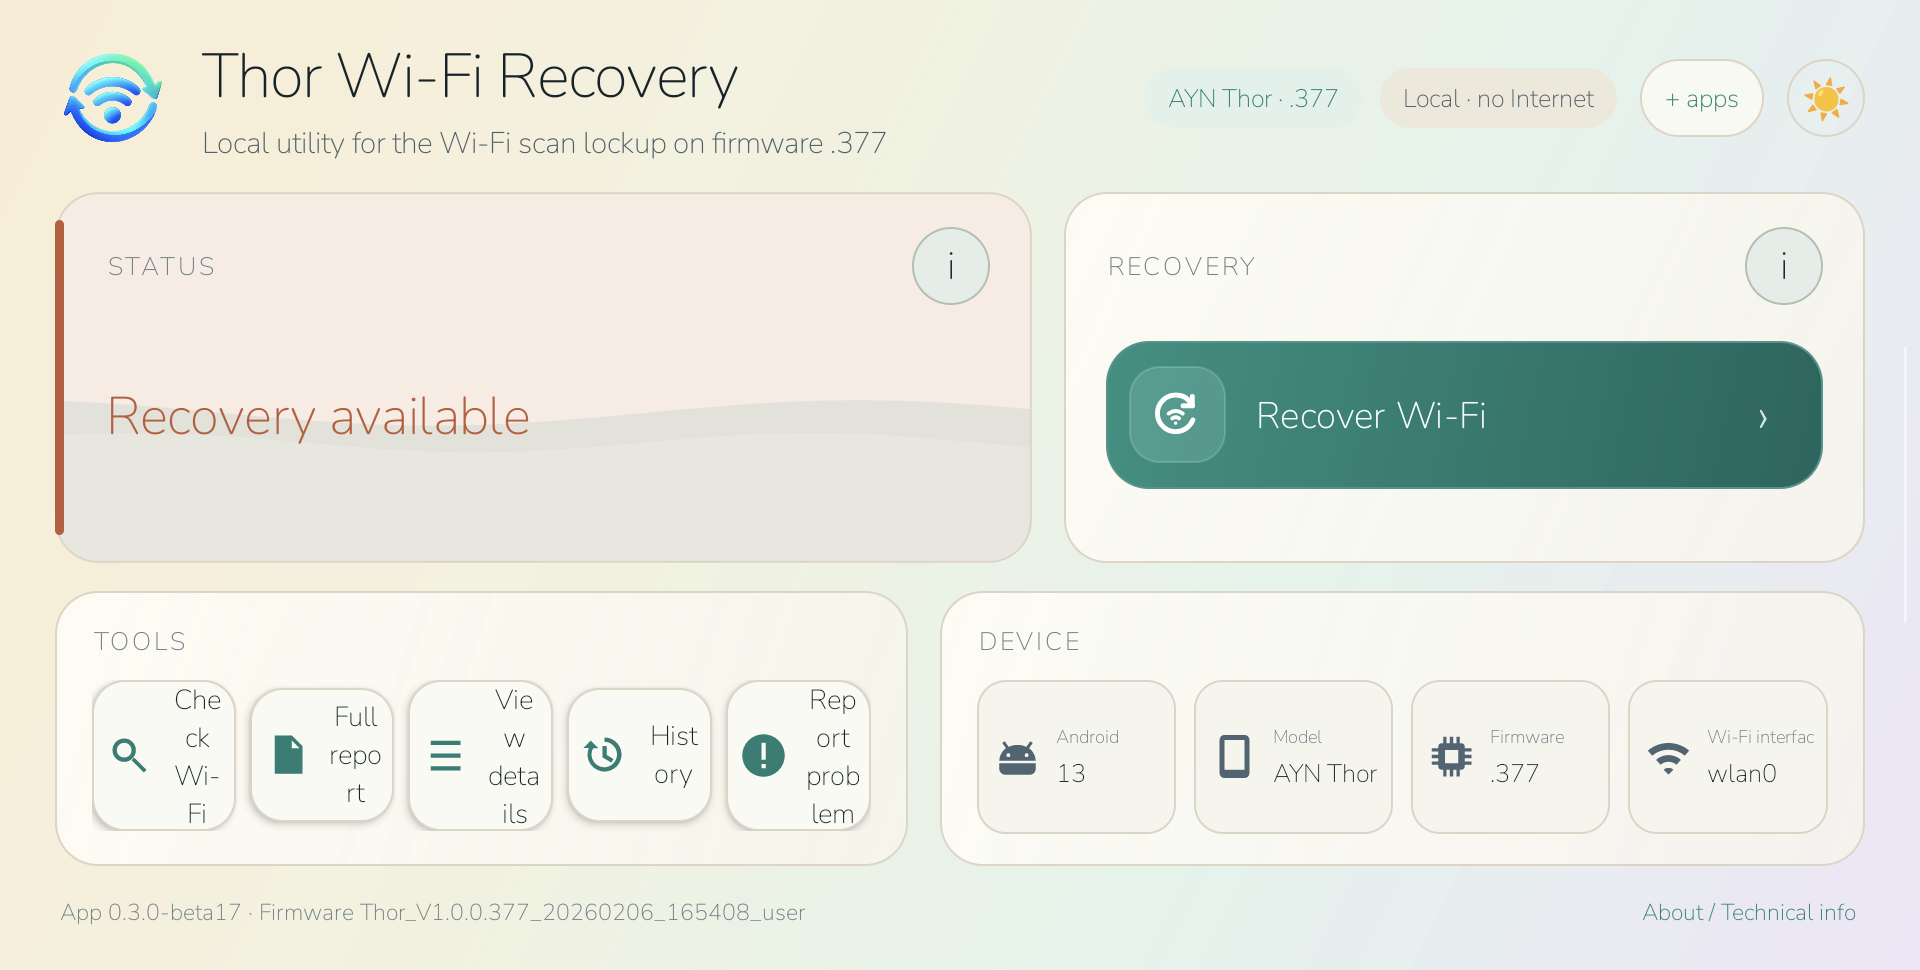
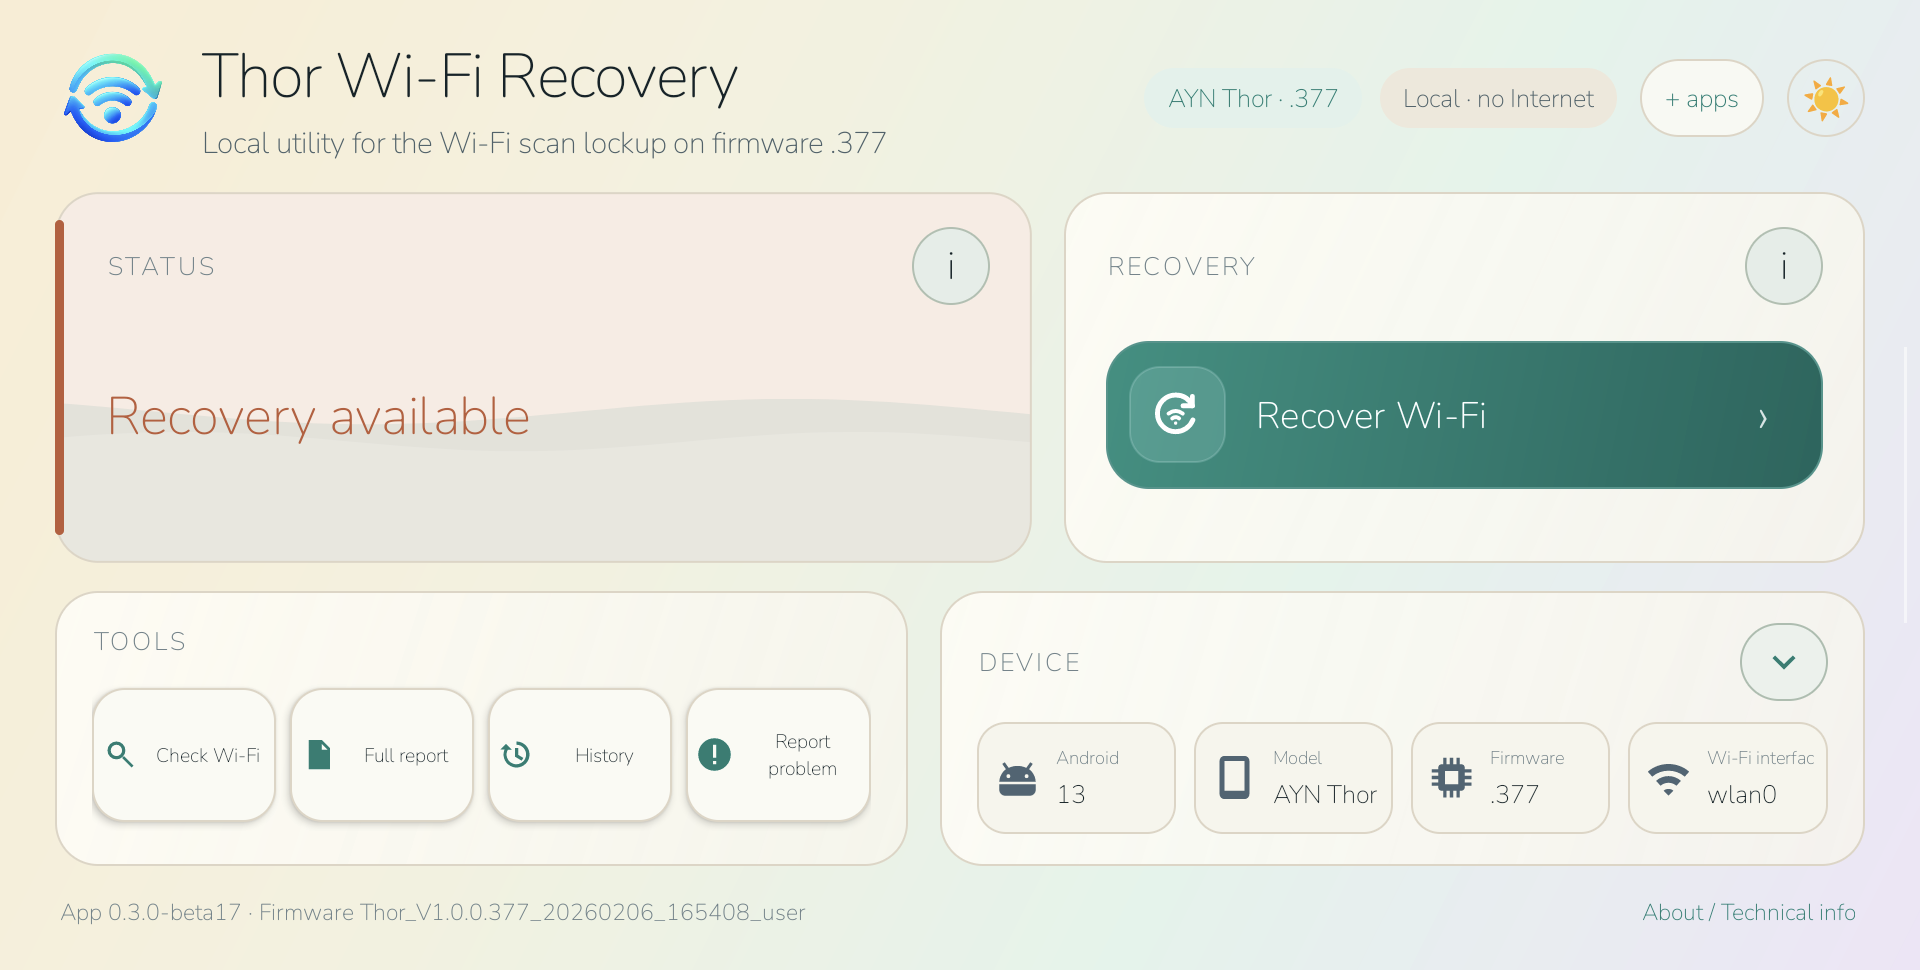
Polish tool actions and refresh beta17 screenshots

diff --git a/app/src/main/java/dev/joelmomo/thorwifirecovery/MainActivity.java b/app/src/main/java/dev/joelmomo/thorwifirecovery/MainActivity.java
@@ -26,6 +26,7 @@ import android.view.ViewGroup;
 import android.view.animation.PathInterpolator;
 import android.widget.Button;
 import android.widget.FrameLayout;
+import android.widget.ImageButton;
 import android.widget.ImageView;
 import android.widget.LinearLayout;
 import android.widget.ProgressBar;
@@ -63,7 +64,7 @@ public class MainActivity extends Activity {
     private View statusRail;
     private LinearLayout detailsBody;
     private LinearLayout deviceSummaryBody;
-    private Button detailsToggle;
+    private ImageButton detailsToggle;
     private TextView summaryAndroid, summaryModel, summaryFirmware, summaryInterface;
     private TextView detailSupport;
     private TextView detailScanner;
@@ -261,20 +262,17 @@ public class MainActivity extends Activity {
         diagnoseButton = toolButton(getString(R.string.diagnose), R.drawable.ic_tool_scan);
         reportButton = toolButton(getString(R.string.copy_full_report_short), R.drawable.ic_tool_report);
         reportButton.setEnabled(false);
-        detailsToggle = toolButton(getString(R.string.details_show_short), R.drawable.ic_tool_details);
         diagnoseButton.setOnClickListener(v -> { interactionFeedback(v); runProbe(true, false); });
         reportButton.setOnClickListener(v -> { interactionFeedback(v); copyDiagnosticReport(); });
-        detailsToggle.setOnClickListener(v -> { interactionFeedback(v); toggleDetails(); });
         historyButton = toolButton(getString(R.string.history_short), R.drawable.ic_tool_history);
         problemButton = toolButton(getString(R.string.report_problem_short), R.drawable.ic_tool_issue);
         historyButton.setOnClickListener(v -> { interactionFeedback(v); showHistory(); });
         problemButton.setOnClickListener(v -> { interactionFeedback(v); reportProblem(); });
 
-        // Keep all tools on one landscape row. A second 58 dp row is clipped on
-        // the Thor's 1920x1080 layout because the lower dashboard card is compact.
+        // Four primary actions fit comfortably on one landscape row. Device
+        // details live with the device card instead of competing for tool width.
         toolRow.addView(diagnoseButton, weightedButton(0, dp(3)));
         toolRow.addView(reportButton, weightedButton(dp(3), dp(3)));
-        toolRow.addView(detailsToggle, weightedButton(dp(3), dp(3)));
         toolRow.addView(historyButton, weightedButton(dp(3), dp(3)));
         toolRow.addView(problemButton, weightedButton(dp(3), 0));
         toolsCard.addView(toolRow, new LinearLayout.LayoutParams(-1, 0, 1f));
@@ -282,7 +280,15 @@ public class MainActivity extends Activity {
         LinearLayout deviceCard = column();
         deviceCard.setPadding(dp(16), dp(14), dp(16), dp(14));
         deviceCard.setBackground(panelBackground());
-        deviceCard.addView(sectionLabel(getString(R.string.section_device)));
+        LinearLayout deviceHeader = new LinearLayout(this);
+        deviceHeader.setGravity(Gravity.CENTER_VERTICAL);
+        deviceHeader.addView(sectionLabel(getString(R.string.section_device)),
+                new LinearLayout.LayoutParams(0, -2, 1f));
+        detailsToggle = disclosureButton();
+        detailsToggle.setOnClickListener(v -> { interactionFeedback(v); toggleDetails(); });
+        deviceHeader.addView(detailsToggle,
+                new LinearLayout.LayoutParams(dp(38), dp(34)));
+        deviceCard.addView(deviceHeader);
         FrameLayout deviceContent = new FrameLayout(this);
         LinearLayout.LayoutParams contentParams = new LinearLayout.LayoutParams(-1, 0, 1f);
         contentParams.setMargins(0, dp(9), 0, 0);
@@ -323,7 +329,7 @@ public class MainActivity extends Activity {
         if (detailsExpanded) {
             deviceSummaryBody.setVisibility(View.GONE);
             detailsBody.setVisibility(View.VISIBLE);
-            detailsToggle.setText(R.string.details_hide_short);
+            updateDetailsToggleIcon();
         }
         if (wide) {
             LinearLayout.LayoutParams topLeft = new LinearLayout.LayoutParams(0, -1, 1.10f);
@@ -1028,6 +1034,33 @@ public class MainActivity extends Activity {
         v.setBackground(roundRectStroke(fill, stroke, 999, 1));
         return v;
     }
+
+    private ImageButton disclosureButton() {
+        ImageButton button = new ImageButton(this);
+        button.setPadding(dp(7), dp(7), dp(7), dp(7));
+        button.setScaleType(ImageView.ScaleType.CENTER_INSIDE);
+        button.setBackground(roundRectStroke(
+                blendColors(colorCard, colorAccent, isLightTheme ? 0.085f : 0.065f),
+                blendColors(colorOutline, colorAccent, isLightTheme ? 0.26f : 0.22f),
+                999, 1));
+        button.setHapticFeedbackEnabled(true);
+        button.setSoundEffectsEnabled(true);
+        updateDetailsToggleIcon(button);
+        return button;
+    }
+
+    private void updateDetailsToggleIcon() {
+        if (detailsToggle != null) updateDetailsToggleIcon(detailsToggle);
+    }
+
+    private void updateDetailsToggleIcon(ImageButton button) {
+        button.setImageResource(detailsExpanded
+                ? R.drawable.ic_expand_less : R.drawable.ic_expand_more);
+        Drawable icon = button.getDrawable();
+        if (icon != null) icon.setTint(colorAccent);
+        button.setContentDescription(getString(detailsExpanded
+                ? R.string.details_hide_short : R.string.details_show_short));
+    }
     private TextView iconButton(String symbol,String description) { TextView v=text(symbol,17,colorTextPrimary,false); v.setGravity(Gravity.CENTER); v.setContentDescription(description); v.setBackground(roundRectStroke(Color.TRANSPARENT,colorOutline,999,1)); v.setMinWidth(dp(34)); v.setMinHeight(dp(34)); v.setHapticFeedbackEnabled(true); v.setSoundEffectsEnabled(true); return v; }
 
     private TextView compactLinkButton(String label, String description) {
@@ -1235,16 +1268,16 @@ public class MainActivity extends Activity {
 
     private Button toolButton(String value, int iconRes) {
         Button button = button(value, Color.TRANSPARENT, colorTextPrimary);
-        button.setTextSize(12);
+        button.setTextSize(8.5f);
         button.setMinHeight(dp(58));
-        button.setPadding(dp(5), 0, dp(5), 0);
+        button.setPadding(dp(4), 0, dp(4), 0);
         button.setBackground(roundRectStroke(
                 blendColors(colorCard, colorAccent, isLightTheme ? 0.02f : 0.035f),
                 colorOutline, 14, 1));
         button.setCompoundDrawablesWithIntrinsicBounds(iconRes, 0, 0, 0);
         android.graphics.drawable.Drawable icon = button.getCompoundDrawables()[0];
         if (icon != null) icon.setTint(colorAccent);
-        button.setCompoundDrawablePadding(dp(7));
+        button.setCompoundDrawablePadding(dp(4));
         return button;
     }
 
@@ -1349,7 +1382,7 @@ public class MainActivity extends Activity {
         incoming.animate().alpha(1f).translationY(0f).setStartDelay(60).setDuration(210)
                 .setInterpolator(new PathInterpolator(0.2f, 0f, 0f, 1f)).start();
         detailsExpanded = show;
-        detailsToggle.setText(show ? R.string.details_hide_short : R.string.details_show_short);
+        updateDetailsToggleIcon();
     }
 
     private void updateDetails(DiagnosticEngine.DeviceInfo info,
